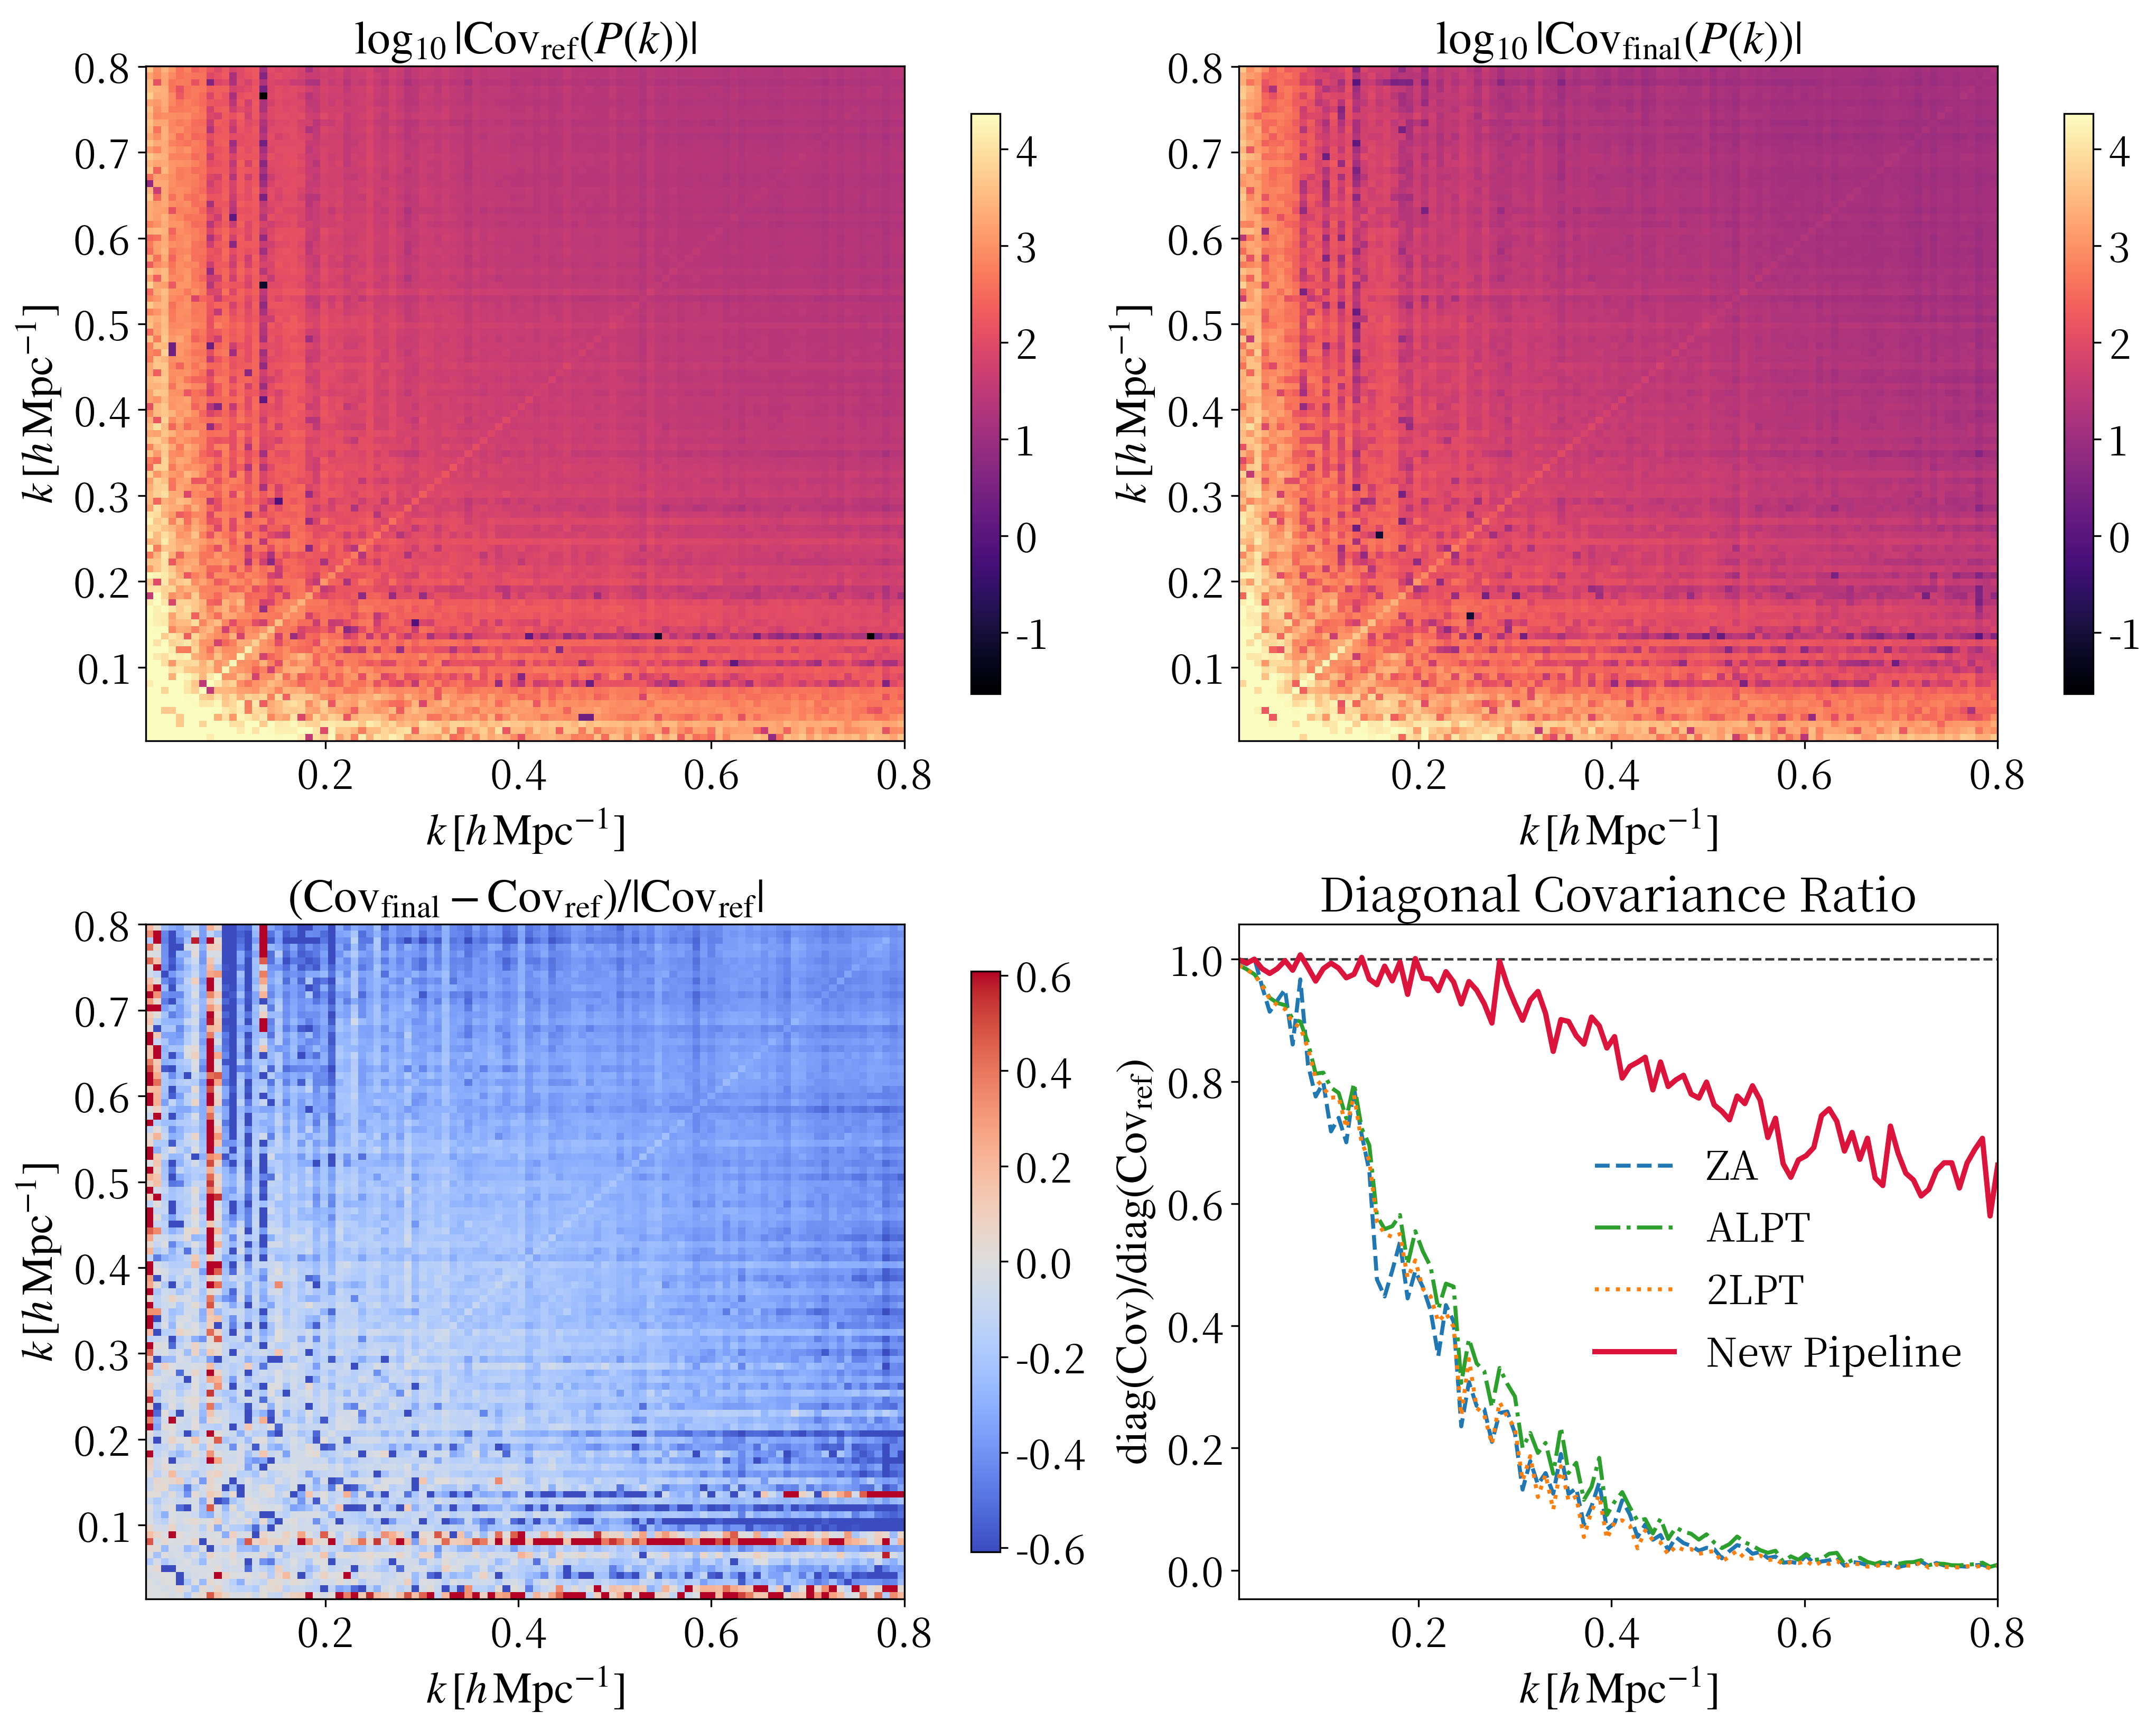
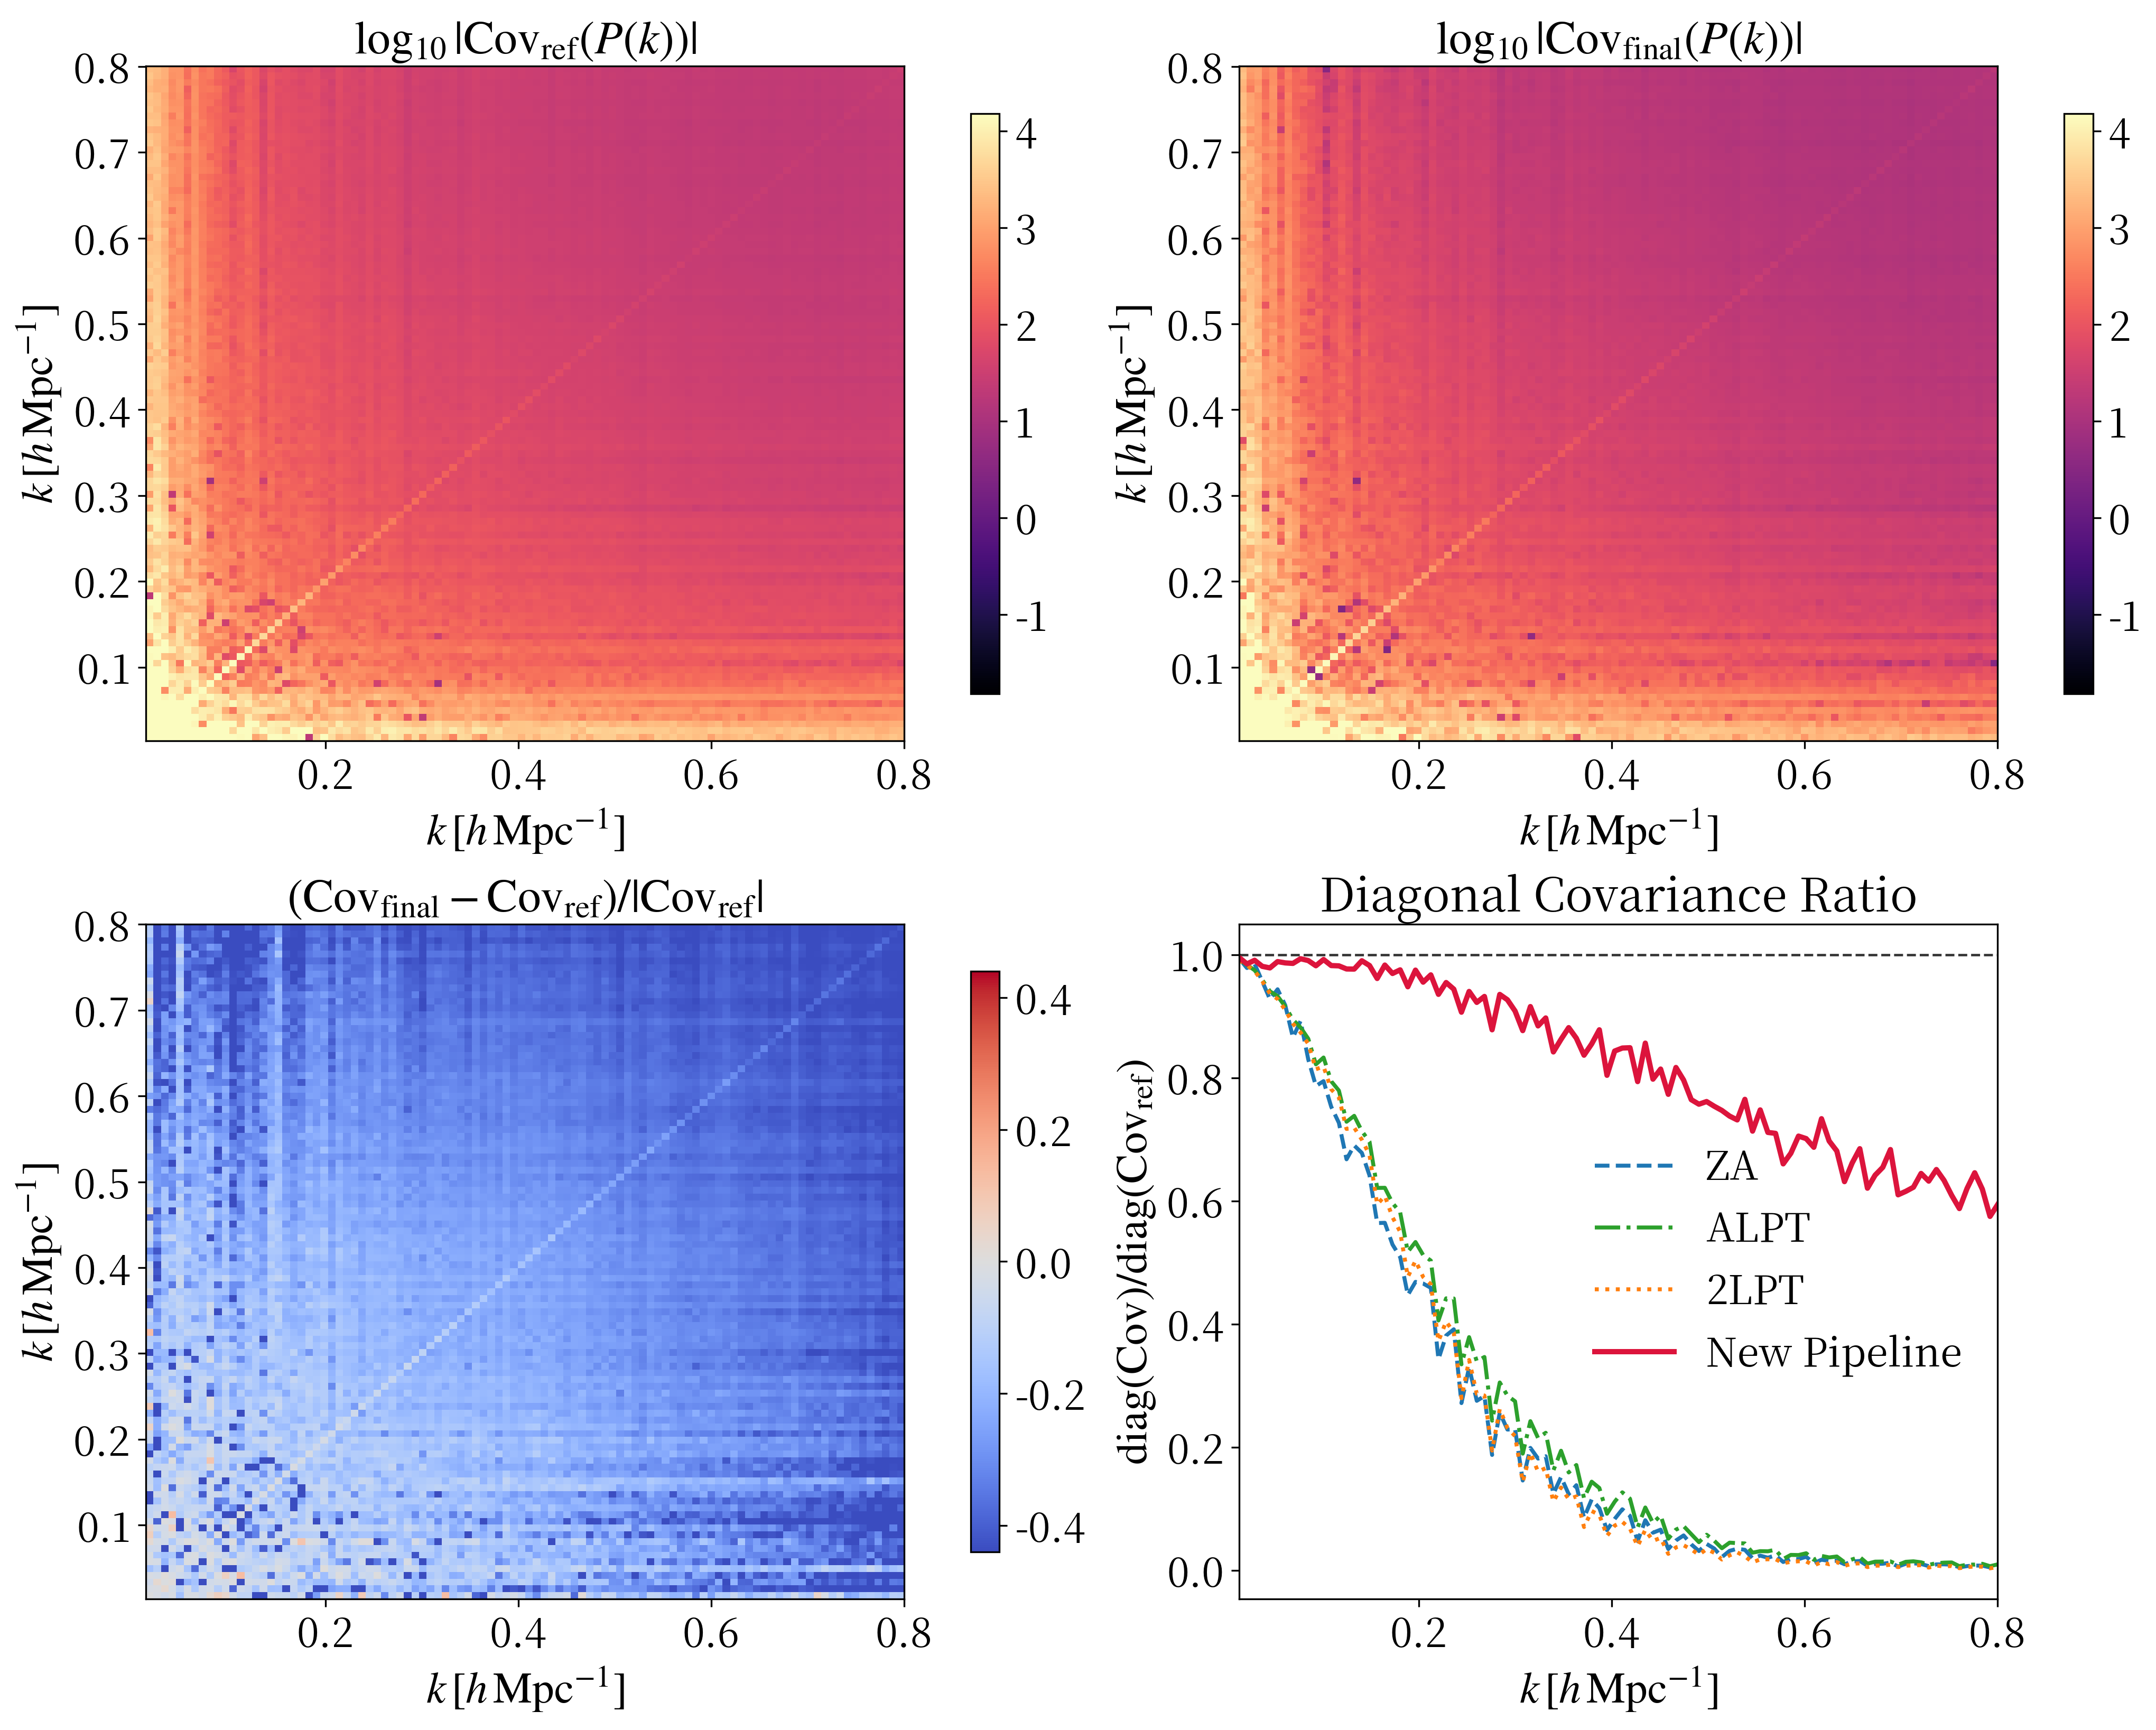
v2

diff --git a/data/chap03.tex b/data/chap03.tex
@@ -87,9 +87,9 @@
 
 \section{暗物质功率谱协方差矩阵}
 
-除均值统计外，协方差矩阵也是宇宙学参数推断中必须准确估计的量。这里使用共48个模拟实现估计暗物质功率谱协方差矩阵，并比较新流程与 N 体参考结果的差异。图~\ref{fig:density-covariance} 左上和右上分别给出 N 体参考与新流程的 \(\log_{10}|\mathrm{Cov}(P(k))|\)。两者在整体矩阵形态、低波数与高波数之间的相关结构以及对角线主结构上较为相似，说明新流程能够较好地保留不同尺度功率谱涨落之间的相关性。
+除均值统计外，协方差矩阵也是宇宙学参数推断中必须准确估计的量。这里使用共240个模拟实现估计暗物质功率谱协方差矩阵，并比较新流程与 N 体参考结果的差异。图~\ref{fig:density-covariance} 左上和右上分别给出 N 体参考与新流程的 \(\log_{10}|\mathrm{Cov}(P(k))|\)。两者在整体矩阵形态、低波数与高波数之间的相关结构以及对角线主结构上较为相似，说明新流程能够较好地保留不同尺度功率谱涨落之间的相关性。
 
-更细致地看，图~\ref{fig:density-covariance} 左下显示新流程相对 N 体参考的协方差逐元差异在较大 \(k\) 区域整体偏负；右下的对角元比值也显示，新流程在小尺度上的方差低于 N 体参考。尽管如此，新流程的协方差对角元仍明显高于 ZA、2LPT 和 ALPT，这说明神经网络纠偏显著改善了快速模拟对样本方差的恢复。当前协方差估计只使用 48 个模拟实现，样本数量仍偏少，因此矩阵元素会受到较强采样噪声影响；后续需要用更多模拟进一步验证小尺度协方差低估是否为稳定系统偏差。
+更细致地看，图~\ref{fig:density-covariance} 左下显示新流程相对 N 体参考的协方差逐元差异在较大 \(k\) 区域整体偏负；右下的对角元比值也显示，新流程在小尺度上的方差低于 N 体参考。尽管如此，新流程的协方差对角元仍明显高于 ZA、2LPT 和 ALPT，这说明神经网络纠偏显著改善了快速模拟对样本方差的恢复。当前协方差估计只使用 240 个模拟实现，样本数量仍偏少，因此矩阵元素会受到较强采样噪声影响；后续需要用更多模拟进一步验证小尺度协方差低估是否为稳定系统偏差。
 
 \begin{figure}[H]
   \centering
@@ -97,7 +97,7 @@
   \par\smallskip
   \begin{minipage}{0.96\textwidth}
     \small\raggedright
-    协方差矩阵由48个模拟实现估计得到。左上：N 体参考功率谱协方差矩阵的 $\log_{10}|\mathrm{Cov}_{\mathrm{ref}}(P(k))|$；右上：新流程功率谱协方差矩阵的 $\log_{10}|\mathrm{Cov}_{\mathrm{final}}(P(k))|$；左下：新流程相对 N 体参考协方差矩阵的逐元相对差异；右下：ZA、ALPT、2LPT 和新流程的协方差对角元相对 N 体参考的比值。
+    协方差矩阵由240个模拟实现估计得到。左上：N 体参考功率谱协方差矩阵的 $\log_{10}|\mathrm{Cov}_{\mathrm{ref}}(P(k))|$；右上：新流程功率谱协方差矩阵的 $\log_{10}|\mathrm{Cov}_{\mathrm{final}}(P(k))|$；左下：新流程相对 N 体参考协方差矩阵的逐元相对差异；右下：ZA、ALPT、2LPT 和新流程的协方差对角元相对 N 体参考的比值。
   \end{minipage}
   \caption{暗物质功率谱协方差矩阵}
   \label{fig:density-covariance}

diff --git a/data/acknowledgements.tex b/data/acknowledgements.tex
@@ -4,8 +4,8 @@
   衷心感谢指导教师赵成副教授在课题选题、研究方法和论文写作过程中给予的指导与帮助。老师严谨的科研态度和清晰的学术思路使我受益匪浅。
 
   感谢在课题研究和论文写作过程中给予讨论、建议和支持的老师、同学与朋友。相关交流帮助我不断完善对宇宙学快速模拟问题的理解，也推动了本文方法和实验结果的改进。
+  
+  感谢DESI项目和NERSC中心提供的计算资源，使得本文的模拟训练和验证得以顺利进行。
 
   感谢家人在学习和生活中给予的理解与支持。
-
-  感谢DESI项目和NERSC中心提供的计算资源，使得本文的模拟训练和验证得以顺利进行。
 \end{acknowledgements}